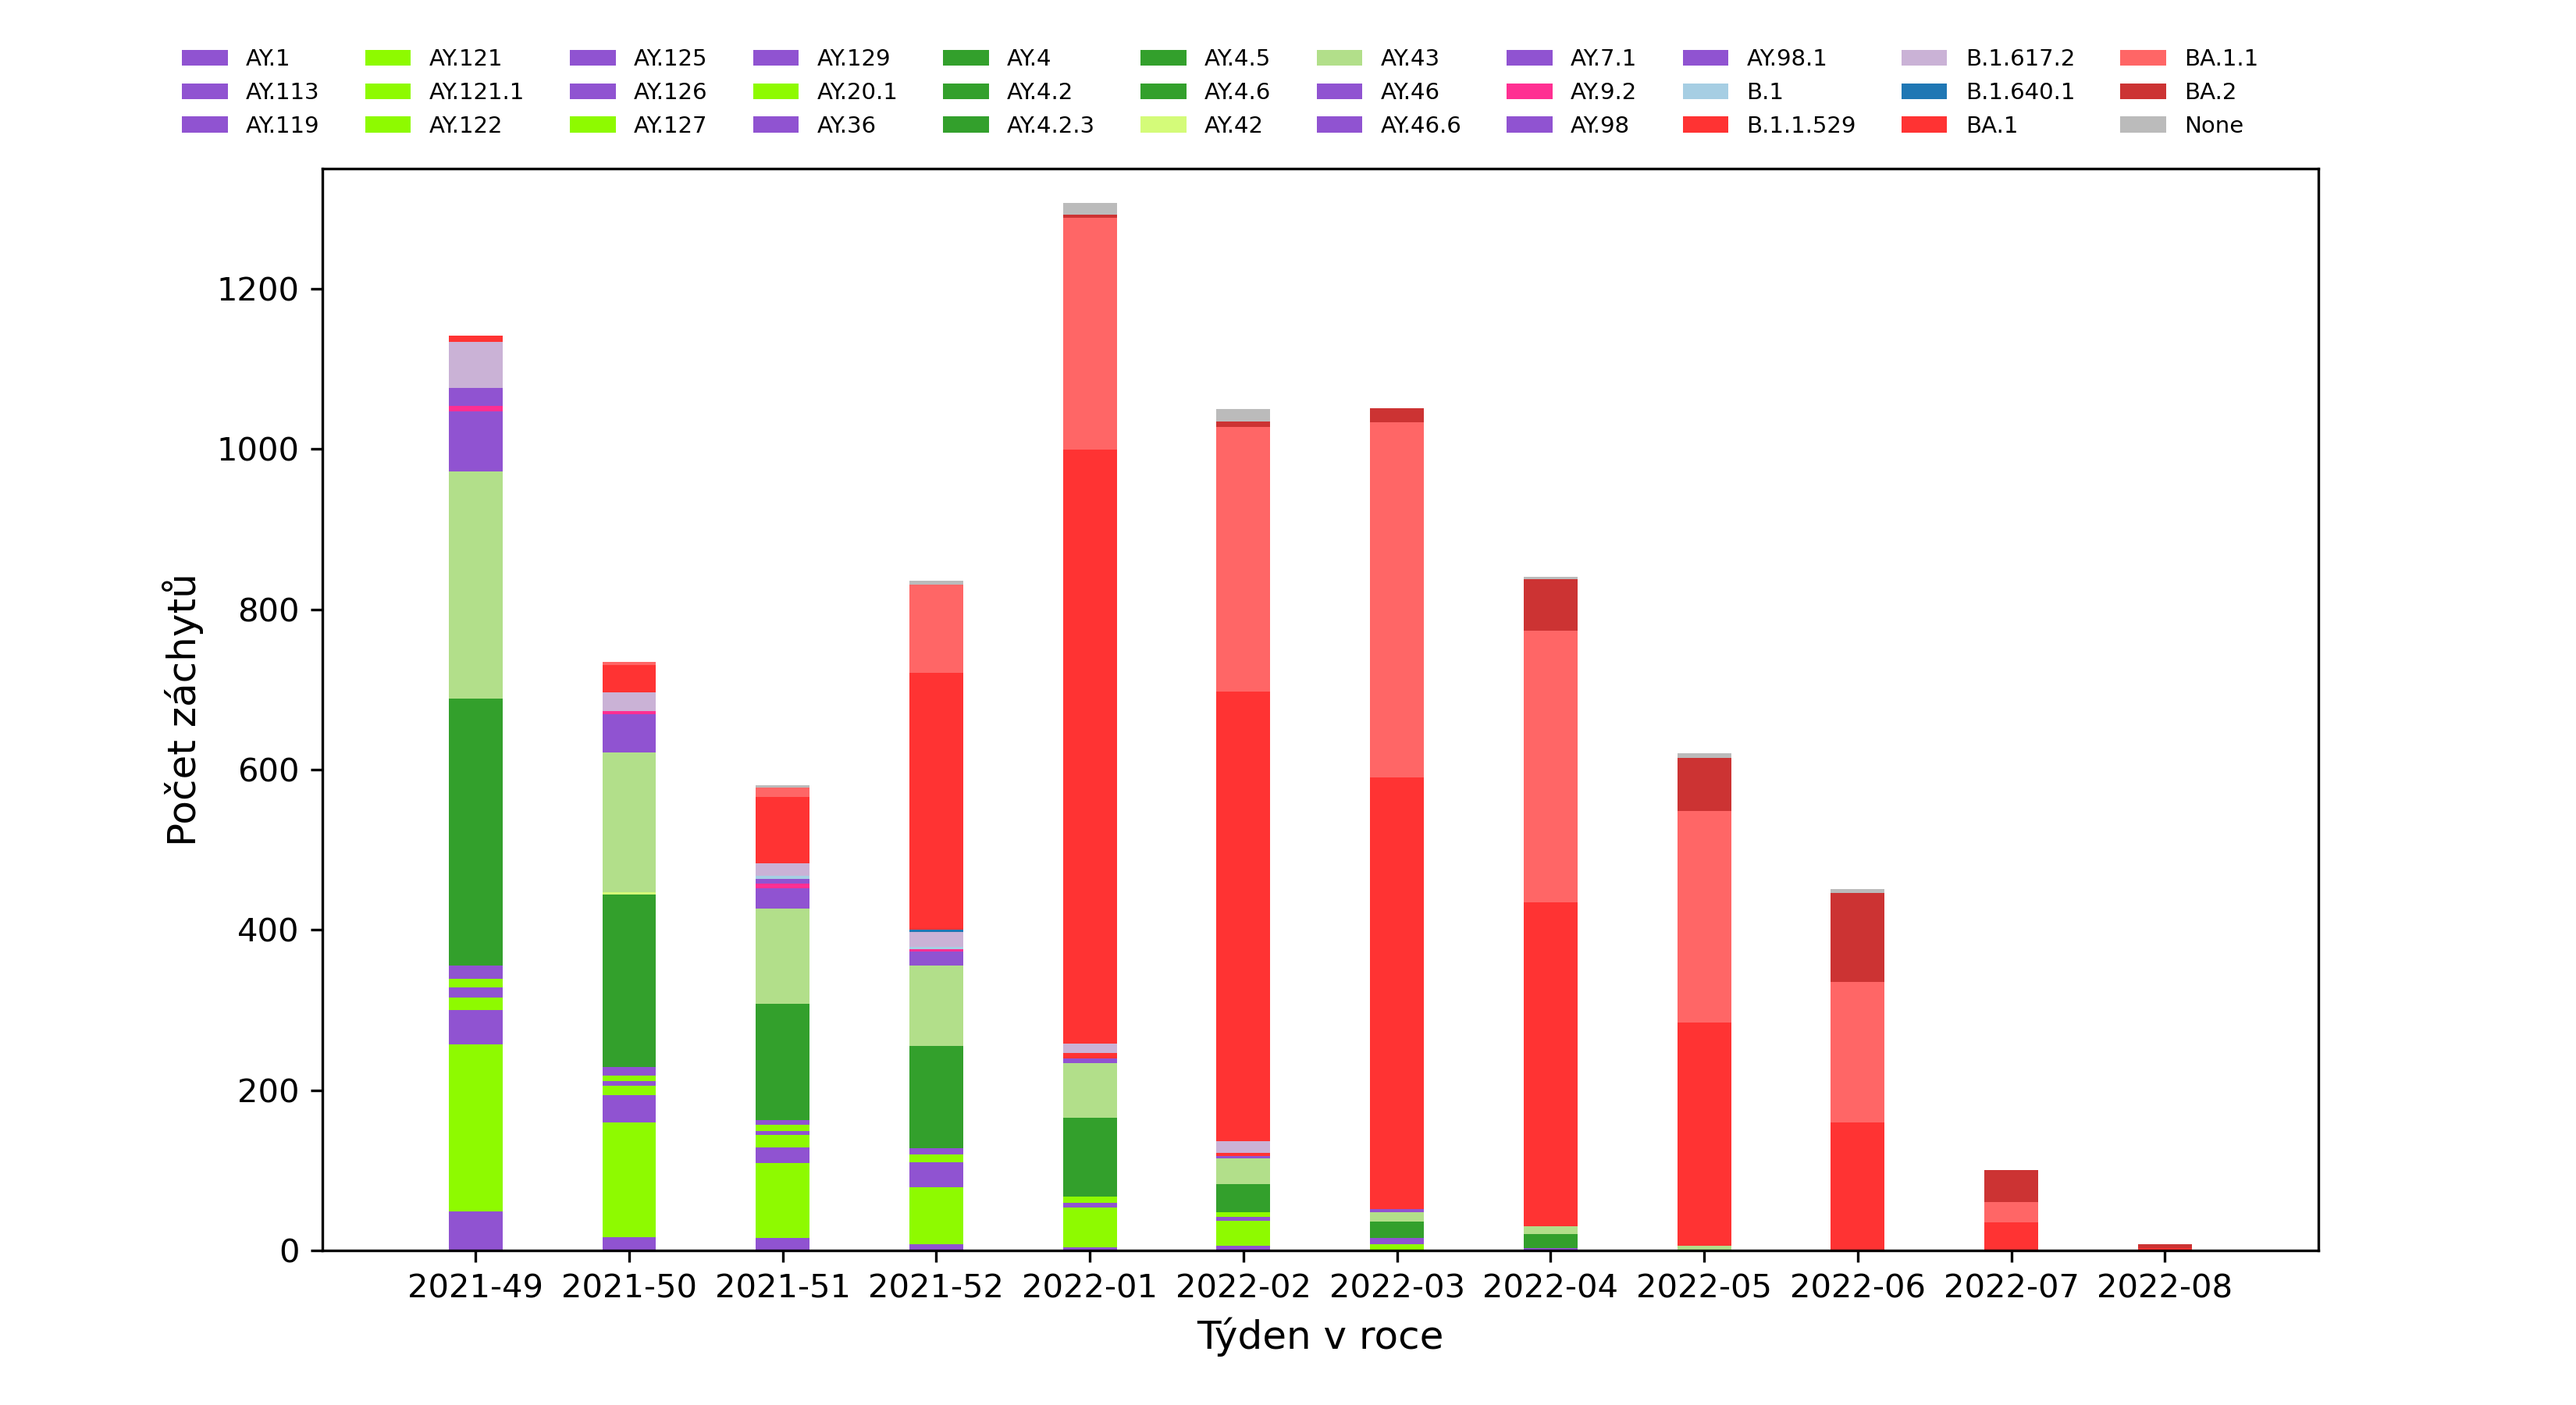
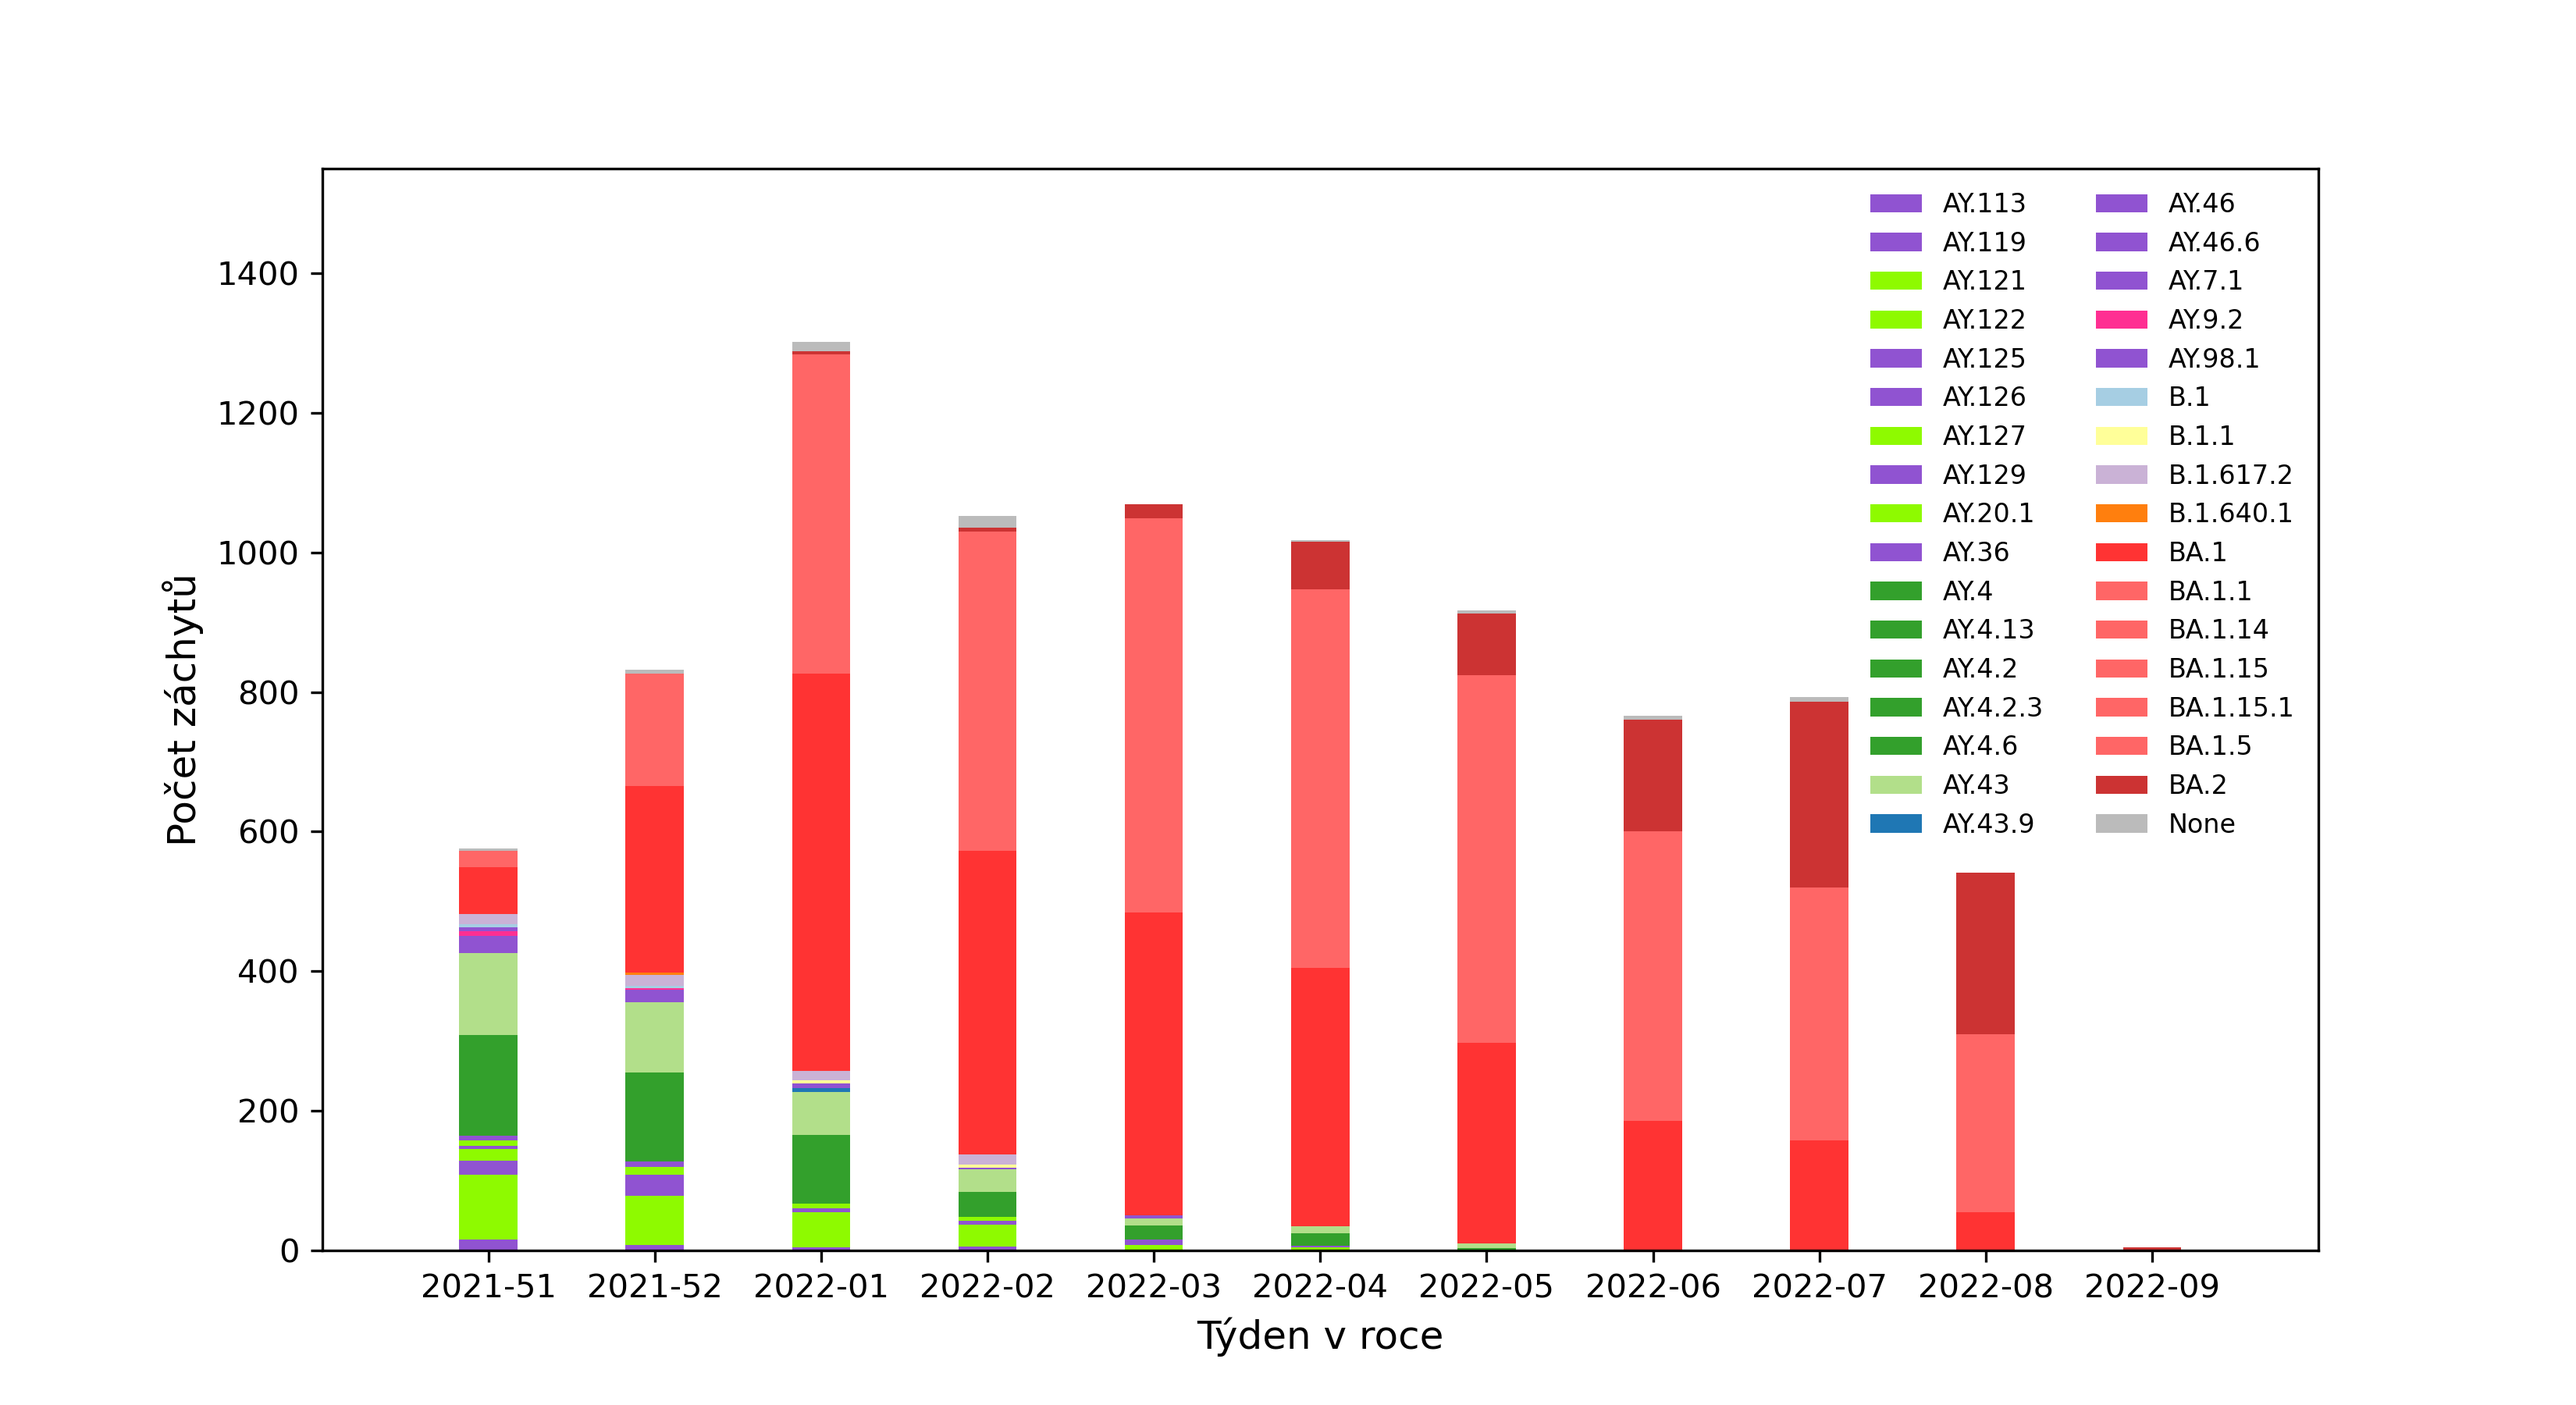
week 10 22 2

diff --git a/template_main.py b/template_main.py
@@ -27,7 +27,7 @@ STARTING_WEEK = "51"
 SEQUENCED_RATIO = "1.0"
 MUTATIONS_COUNT = "4 200"
 NOW=datetime.datetime.now().strftime('%d. %m. %Y' )
-VOC = ['B.1.351',"B.1.1.529", 'P.1', 'B.1.617.2','B.1.1.7',"B.1.351.2", "B.1.351.5", "BA.1.1", "BA.1", "BA.1.4", "BA.1.6", "BA.1.7", "BA.1.8", "BA.1.10", "BA.1.12", "BA.1.13", "BA.1.13.1", "BA.1.15", "BA.1.15.1", "BA.2", "BA.3",  "AY.1", "AY.2", "AY.3", "AY.4", "AY.4.1", "AY.4.2", "AY.4.2.1", "AY.4.2.2", "AY.4.2.3", "AY.4.3", "AY.4.4","AY.4.5", "AY.4.6", "AY.4.7", "AY.4.9", "AY.5", "AY.5.2", "AY.5.4", "AY.6","AY.7","AY.7.1", "AY.7.2", "AY.9","AY.9.1", "AY.9.2", "AY.10", "AY.11", "AY.12", "AY.16", "AY.20", "AY.20.1", "AY.21", "AY.23","AY.23.1", "AY.25", "AY.25.1", "AY.26","AY.27", "AY.31", "AY.32", "AY.33", "AY.34", "AY.35","AY.36", "AY.37", "AY.38", "AY.39", "AY.39.1", "AY.40", "AY.41","AY.42", "AY.43", "AY.43.2", "AY.43.3", "AY.43.4", "AY.43.6", "AY.43.7", "AY.43.9", "AY.44", "AY.45", "AY.46", "AY.46.1", "AY.46.5", "AY.46.6","AY.46.2", "AY.46.6", "AY.47", "AY.51", "AY.60", "AY.61", "AY.66", "AY.68", "AY.71", "AY.74", "AY.79", "AY.84", "AY.91", "AY.94", "AY.95", "AY.96", "AY.98", "AY.98.1", "AY.100", "AY.102", "AY.103", "AY.106", "AY.110", "AY.111", "AY.112", "AY.113", "AY.116", "AY.117", "AY.118", "AY.119", "AY.120", "AY.121", "AY.121.1", "AY.122", "AY.122.1", "AY.123", "AY.124", "AY.125", "AY.126", "AY.127", "AY.129"]
+VOC = ['B.1.351',"B.1.1.529", 'P.1', 'B.1.617.2','B.1.1.7',"B.1.351.2", "B.1.351.5", "BA.1.1", "BA.1", "BA.1.4", "BA.1.5", "BA.1.6", "BA.1.7", "BA.1.8", "BA.1.10", "BA.1.12", "BA.1.13", "BA.1.13.1", "BA.1.14", "BA.1.15", "BA.1.15.1", "BA.2", "BA.3",  "AY.1", "AY.2", "AY.3", "AY.4", "AY.4.1", "AY.4.2", "AY.4.2.1", "AY.4.2.2", "AY.4.2.3", "AY.4.3", "AY.4.13", "AY.4.4","AY.4.5", "AY.4.6", "AY.4.7", "AY.4.9", "AY.5", "AY.5.2", "AY.5.4", "AY.6","AY.7","AY.7.1", "AY.7.2", "AY.9","AY.9.1", "AY.9.2", "AY.10", "AY.11", "AY.12", "AY.16", "AY.20", "AY.20.1", "AY.21", "AY.23","AY.23.1", "AY.25", "AY.25.1", "AY.26","AY.27", "AY.31", "AY.32", "AY.33", "AY.34", "AY.35","AY.36", "AY.37", "AY.38", "AY.39", "AY.39.1", "AY.40", "AY.41","AY.42", "AY.43", "AY.43.2", "AY.43.3", "AY.43.4", "AY.43.6", "AY.43.7", "AY.43.8", "AY.43.9", "AY.44", "AY.45", "AY.46", "AY.46.1", "AY.46.5", "AY.46.6","AY.46.2", "AY.46.6", "AY.47", "AY.51", "AY.60", "AY.61", "AY.66", "AY.68", "AY.71", "AY.74", "AY.79", "AY.84", "AY.91", "AY.94", "AY.95", "AY.96", "AY.98", "AY.98.1", "AY.100", "AY.102", "AY.103", "AY.106", "AY.110", "AY.111", "AY.112", "AY.113", "AY.116", "AY.117", "AY.118", "AY.119", "AY.120", "AY.121", "AY.121.1", "AY.122", "AY.122.1", "AY.123", "AY.124", "AY.125", "AY.126", "AY.127", "AY.129"]
 VOI = ['B.1.620', 'B.1.621', "C.37" ]
 # uprav tyden v range()
 
